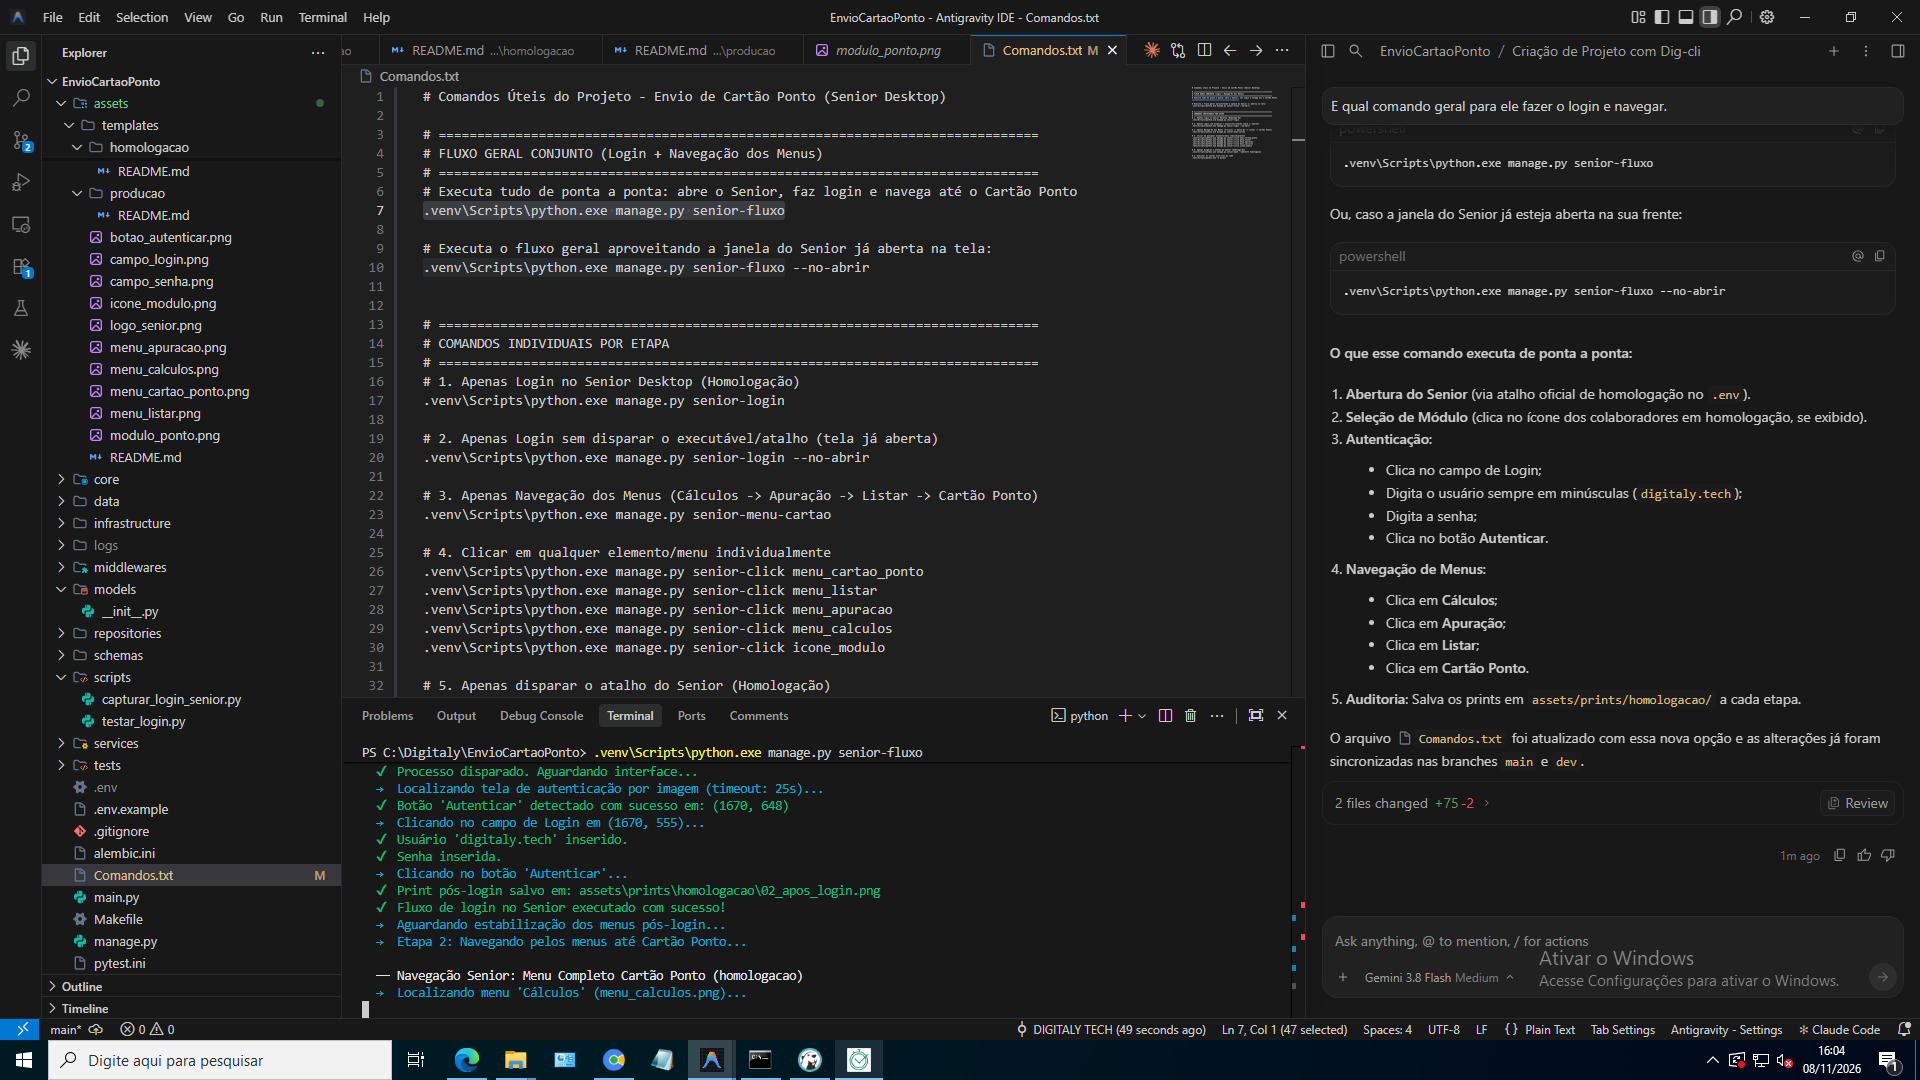
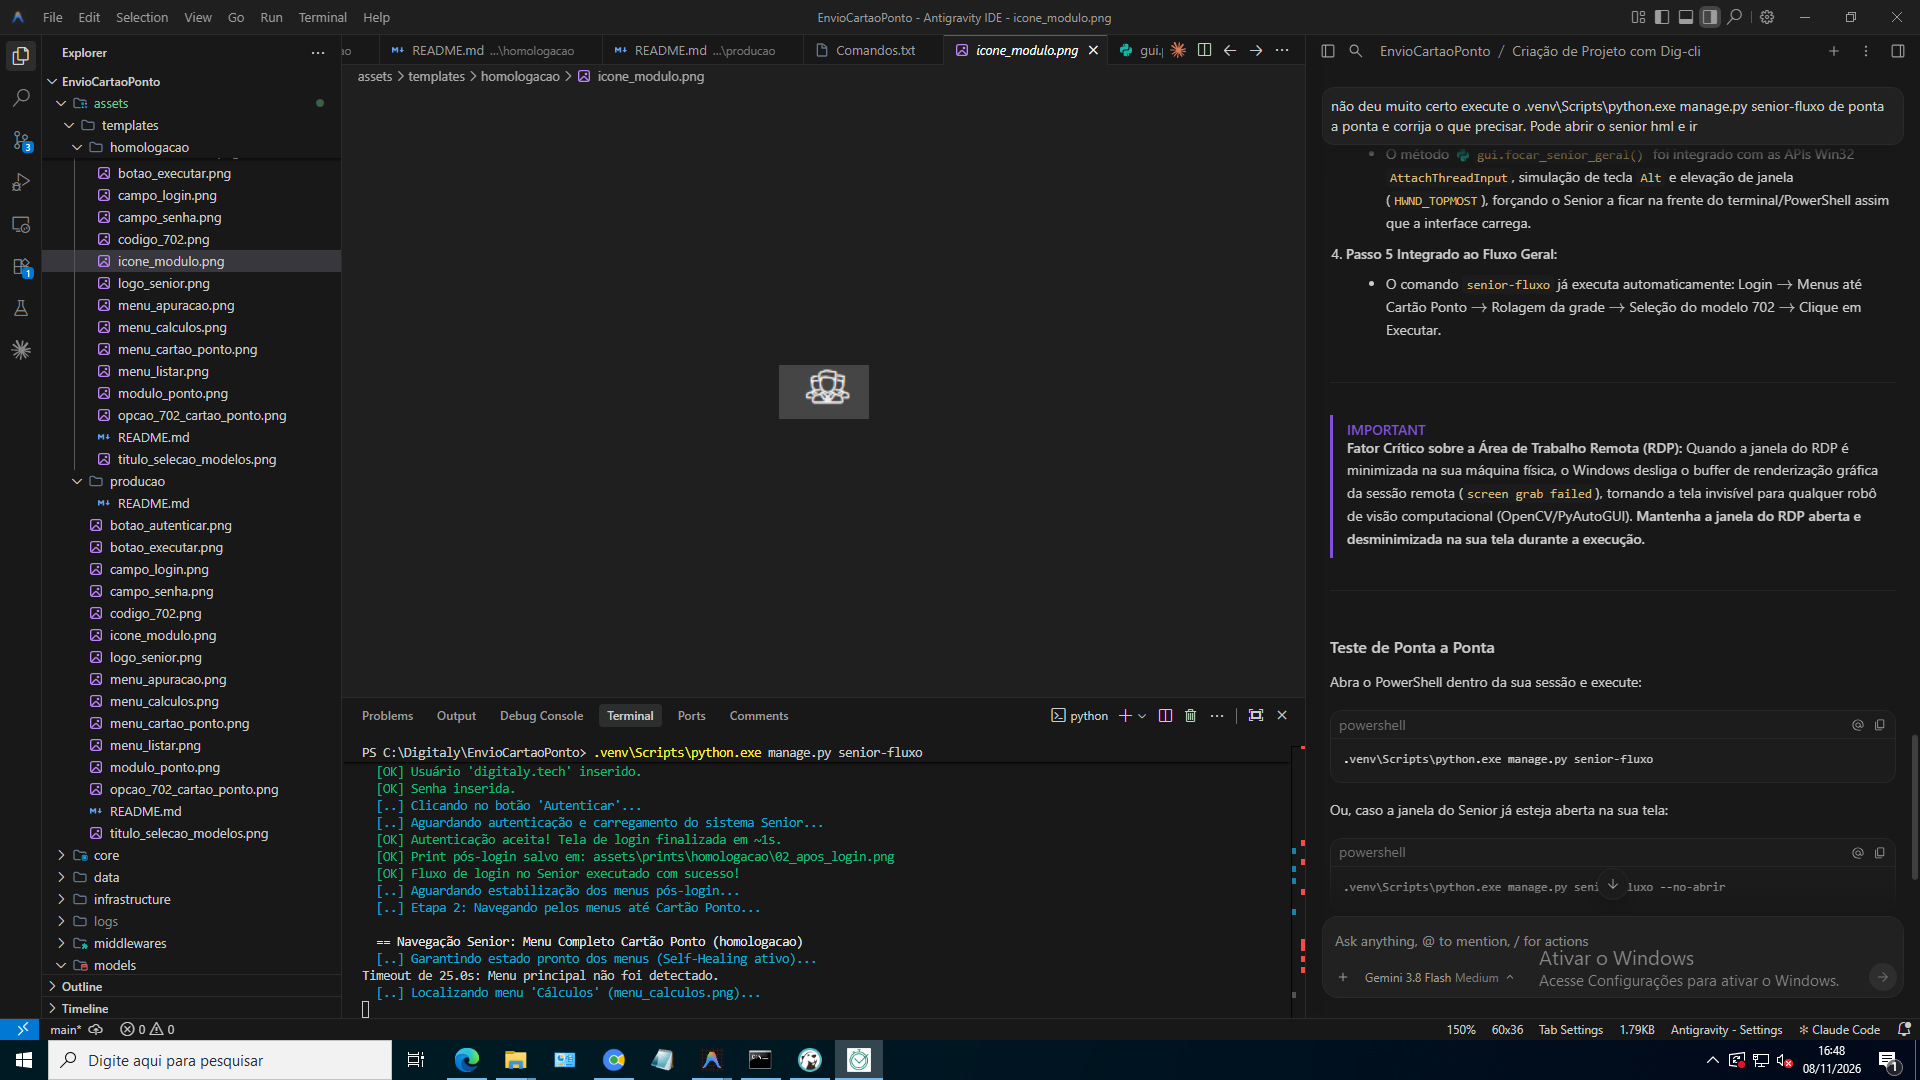
fix(launcher): disparar Iniciar.exe diretamente sem abrir pastas do Explorer

diff --git a/services/senior_service.py b/services/senior_service.py
@@ -193,47 +193,33 @@ class SeniorService:
             return False
 
     def abrir_sistema_senior(self, ambiente: str = "homologacao") -> bool:
-        """
-        PASSO 2:
-        1. Acessar a área de trabalho e abrir a pasta 'Senior';
-        2. Abrir a opção 'Controle de Ponto e Refeitório'.
-        """
-        logger.info(f"Iniciando abertura do sistema Senior ({ambiente})...")
+        """Dispara o Senior diretamente sem abrir pastas do Explorer."""
+        logger.info(f"Iniciando Senior ({ambiente}) diretamente pelo executável...")
+        is_hml = "homolog" in ambiente.lower()
+        srv_dir = "Senior_HML" if is_hml else "Senior"
+        srv_host = "SRVVETORH-HML" if is_hml else "SRVVETORH"
+        senior_dir = r"C:\Senior-hml" if is_hml else r"C:\Senior"
+        exe_unc = f"\\\\{srv_host}\\\\{srv_dir}\\Iniciar.exe"
+        args = f'-SystemModule:VETORH.RONDA -seniordir:"{senior_dir}\\"'
 
-        # Prioridade 1: Executável configurado no .env por ambiente (HML ou PROD)
-        caminho_env = (
-            settings.SENIOR_EXECUTAVEL_HML
-            if "homolog" in ambiente.lower()
-            else settings.SENIOR_EXECUTAVEL_PROD
-        ) or settings.SENIOR_EXECUTAVEL
+        try:
+            subprocess.Popen(f'"{exe_unc}" {args}', shell=True)
+            time.sleep(6)
+            self.focar_janela_senior()
+            return True
+        except Exception as e:
+            logger.error(f"Erro ao disparar Senior via UNC: {e}")
 
-        if caminho_env and Path(caminho_env).exists():
-            caminho = str(caminho_env)
-            logger.info(f"Executando Senior via caminho configurado ({ambiente}): {caminho}")
+        exe_local = Path(senior_dir) / "Vetorh" / "RONDA.EXE"
+        if exe_local.exists():
             try:
-                if caminho.lower().endswith('.lnk'):
-                    subprocess.Popen(["powershell", "-NoProfile", "-Command", f"Invoke-Item '{caminho}'"])
-                else:
-                    subprocess.Popen([caminho])
+                subprocess.Popen([str(exe_local)], cwd=str(exe_local.parent))
                 time.sleep(6)
-                # Em homologação, clica no ícone do módulo se aparecer na tela inicial
-                self._clicar_icone_modulo_se_necessario()
+                self.focar_janela_senior()
                 return True
             except Exception as e:
-                logger.error(f"Erro ao abrir Senior via caminho direto: {e}")
+                logger.error(f"Erro ao disparar Senior local: {e}")
 
-        # Tenta clicar no atalho da Área de Trabalho por imagem
-        sucesso_pasta = self._clicar_se_encontrar("pasta_senior.png", timeout=5, descricao="Pasta Senior na Área de Trabalho")
-        if sucesso_pasta:
-            time.sleep(2)
-            self._clicar_se_encontrar("modulo_ponto.png", timeout=5, descricao="Controle de Ponto e Refeitório")
-            time.sleep(5)
-            return True
-
-        logger.warning(
-            "Não foi possível abrir o Senior automaticamente por template visual. "
-            "Certifique-se de que a aplicação está aberta na tela ou configure SENIOR_EXECUTAVEL no .env."
-        )
         return False
 
     def autenticar_senior(self, usuario: Optional[str] = None, senha: Optional[str] = None) -> bool:

diff --git a/manage.py b/manage.py
@@ -1016,52 +1016,37 @@ def automate_play(
 
 # ── Senior Automation Commands ─────────────────────────────
 def _disparar_senior(ambiente: str = "homologacao") -> bool:
-    import os
+    """
+    Dispara o executável Iniciar.exe do Senior diretamente com argumentos de módulo,
+    sem abrir pastas ou janelas do Explorer na frente.
+    """
     import subprocess
     from pathlib import Path
-    from core.config import settings
 
-    # 0. Tenta pelo executável/atalho configurado explicitamente no .env
-    caminho_env = (
-        settings.SENIOR_EXECUTAVEL_HML
-        if "homolog" in ambiente.lower()
-        else settings.SENIOR_EXECUTAVEL_PROD
-    ) or settings.SENIOR_EXECUTAVEL
-
-    if caminho_env and Path(caminho_env).exists():
-        try:
-            if str(caminho_env).lower().endswith(".lnk"):
-                subprocess.Popen(["powershell", "-NoProfile", "-Command", f"Invoke-Item '{caminho_env}'"])
-            else:
-                subprocess.Popen([str(caminho_env)])
-            return True
-        except Exception:
-            pass
-
-    # 1. Tenta pelo atalho nativo da Área de Trabalho Pública
-    base_senior = Path(r"C:\Users\Public\Desktop\Senior")
-    termo = "homolog" if "homolog" in ambiente.lower() else "produ"
-    if base_senior.exists():
-        for atalho in base_senior.rglob("*Controle*Ponto*.lnk"):
-            if termo in str(atalho).lower():
-                try:
-                    os.startfile(str(atalho))
-                    return True
-                except Exception:
-                    pass
-
-    # 2. Tenta via rede UNC com shell=True
-    srv_dir = "Senior_HML" if "homolog" in ambiente.lower() else "Senior"
-    srv_host = "SRVVETORH-HML" if "homolog" in ambiente.lower() else "SRVVETORH"
-    senior_dir = r"C:\Senior-hml" if "homolog" in ambiente.lower() else r"C:\Senior"
-    exe = f"\\\\{srv_host}\\{srv_dir}\\Iniciar.exe"
+    # Fecha qualquer janela de pasta do Explorer que possa estar cobrindo a tela
     try:
-        subprocess.Popen(f'"{exe}" -SystemModule:VETORH.RONDA -seniordir:"{senior_dir}\"', shell=True)
+        import pygetwindow as gw
+        for w in gw.getAllWindows():
+            if any(k in (w.title or '').lower() for k in ['vetorh homolog', 'vetorh produ', 'pasta senior']):
+                w.close()
+    except Exception:
+        pass
+
+    # Disparo direto do executável Iniciar.exe na rede com argumentos do módulo Ronda
+    is_hml = "homolog" in ambiente.lower()
+    srv_dir = "Senior_HML" if is_hml else "Senior"
+    srv_host = "SRVVETORH-HML" if is_hml else "SRVVETORH"
+    senior_dir = r"C:\Senior-hml" if is_hml else r"C:\Senior"
+    exe_unc = f"\\\\{srv_host}\\\\{srv_dir}\\Iniciar.exe"
+    args = f'-SystemModule:VETORH.RONDA -seniordir:"{senior_dir}\\"'
+
+    try:
+        subprocess.Popen(f'"{exe_unc}" {args}', shell=True)
         return True
     except Exception:
         pass
 
-    # 3. Tenta executável local
+    # Fallback para executável local se disponível
     exe_local = Path(senior_dir) / "Vetorh" / "RONDA.EXE"
     if exe_local.exists():
         try:
